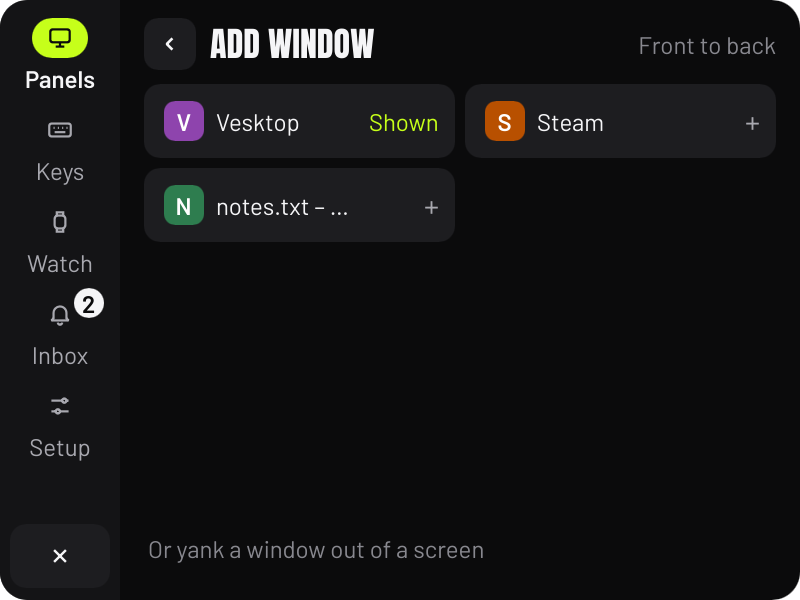
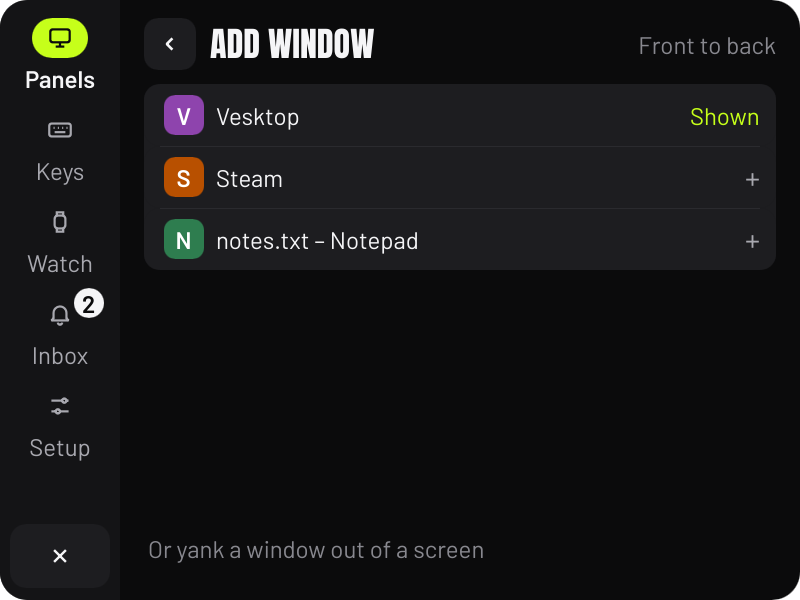
Add Window lists full titles, unread dot on the tile's corner, Rebind row has its arrow

diff --git a/crates/ui/src/menu.rs b/crates/ui/src/menu.rs
@@ -133,10 +133,6 @@ slint::slint! {
                 x: 16px; y: (parent.height - 12px) / 2; width: 12px; height: 12px; border-radius: 6px;
                 background: s.on ? Theme.accent : #88888F;
             }
-            // Unread dot.
-            if s.kind == 9 && s.on : Rectangle {
-                x: 6px; y: 18px; width: 10px; height: 10px; border-radius: 5px; background: Theme.accent;
-            }
             // Choice: a radio dot (accent when chosen).
             if s.kind == 11 : Rectangle {
                 x: 16px; y: (parent.height - 26px) / 2; width: 26px; height: 26px; border-radius: 13px;
@@ -151,6 +147,11 @@ slint::slint! {
                 x: 20px; y: s.kind == 9 ? 14px : (parent.height - 40px) / 2;
                 width: 40px; height: 40px; border-radius: 11px; background: s.tile-color;
                 Text { text: s.tile; font-size: 24px; font-weight: 700; color: #FFFFFF; }
+            }
+            // Unread: a dot on the tile's corner, so every row's tile and text stay on the same inset.
+            if s.kind == 9 && s.on : Rectangle {
+                x: 48px; y: 6px; width: 16px; height: 16px; border-radius: 8px; background: Theme.accent;
+                border-width: 3px; border-color: #1D1D20;
             }
             // Row text: label (and detail on a second line for messages), value on the right.
             // Control: the control takes whatever the action's name leaves.

diff --git a/crates/app/src/session.rs b/crates/app/src/session.rs
@@ -39,7 +39,7 @@ const HIDE_S: f32 = 0.1;
 const WATCH_SHOW_S: f32 = 0.08;
 const WATCH_HIDE_S: f32 = 0.18;
 /// Windows listed per page of "Add window".
-const WINDOWS_PER_PAGE: usize = 8;
+const WINDOWS_PER_PAGE: usize = 6;
 /// Notifications kept for the Inbox (newest first).
 pub const HISTORY_LEN: usize = 5;
 /// Panels listed under "Open now" before "and n more".
@@ -1021,7 +1021,8 @@ impl Session {
                 if cards.is_empty() {
                     l.paragraph(Col::Full, t("menu-windows-none"), Tone::Secondary, 40.0);
                 }
-                l.cards(Col::Full, cards, 2, 74.0);
+                // One full-width row each: window titles are long, and half-width cards cut them short.
+                l.rows(Col::Full, cards, ROW_H);
                 let more = (self.windows.len() > start + WINDOWS_PER_PAGE)
                     .then(|| add(&mut acts, Act::MoreWindows, primary(t("menu-more"), false)));
                 l.footer(t("menu-yank"), more);
@@ -1145,7 +1146,7 @@ impl Session {
                 ];
                 l.rows(Col::Right, rows, ROW_H);
                 l.label(Col::Right, t("menu-controls-buttons"));
-                let rebind = row(t("menu-rebind"));
+                let rebind = row(t("menu-rebind")).value("›");
                 l.rows(Col::Right, vec![add(&mut acts, Act::Rebind, rebind)], ROW_H);
                 l.finish()
             }
